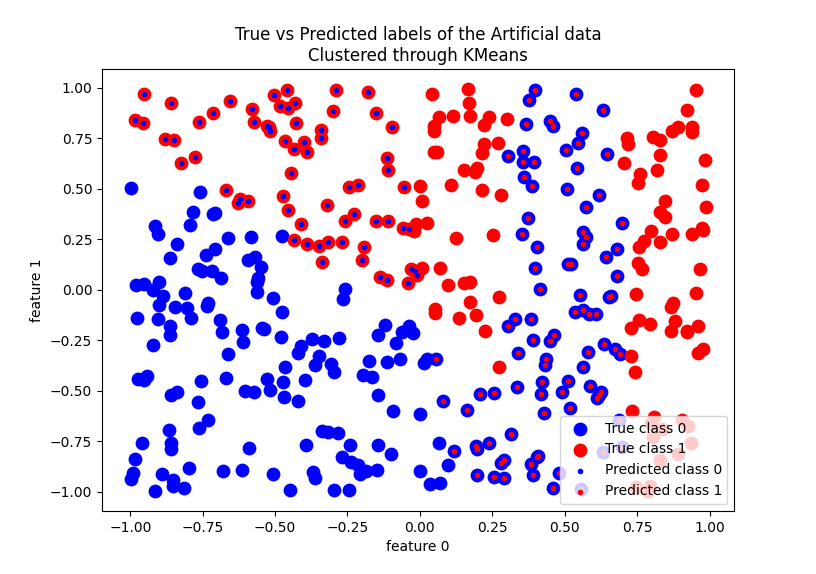
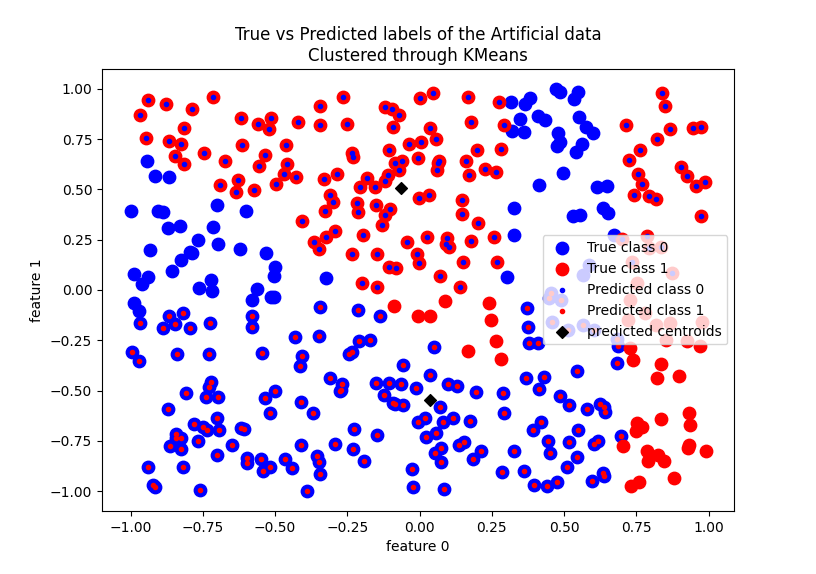
added centroids to plot

diff --git a/code/swarm_intelligence/ex3.py b/code/swarm_intelligence/ex3.py
@@ -109,18 +109,18 @@ class ArtificialData:
         return 1 if x[0] >= 0.7 or x[0] <= 0.3 and x[1] >= -0.2 - x[0] else 0
 
 
-def plot_2D_data(X: np.ndarray, y: np.ndarray, y_hat:np.ndarray, k:int, data_name:str, method_name:str):
+def plot_2D_data(X: np.ndarray, y: np.ndarray, y_hat: np.ndarray, k: int, centroids:np.ndarray, data_name: str, method_name: str):
     colors = ['blue', 'red', 'orange']
     for i in range(k):
         plt.scatter(X[y == i][:, 0], X[y == i][:, 1], marker='o', s=80, c=colors[i], label=f'True class {i}')
     for i in range(k):
         plt.scatter(X[y_hat == i][:, 0], X[y_hat == i][:, 1], marker='.', c=colors[i], label=f'Predicted class {i}')
+    plt.scatter(centroids[:,0], centroids[:,1],c='black', marker='D', label='predicted centroids')
     plt.legend()
     plt.xlabel('feature 0')
     plt.ylabel('feature 1')
     plt.title(f'True vs Predicted labels of the {data_name} data\nClustered through {method_name}')
     plt.show()
-
 
 
 # Load iris data:
@@ -136,7 +136,7 @@ k_artificial = 2
 omega = 0.72
 alpha1 = alpha2 = 1.49
 n_its = 100
-n_trials = 30
+n_trials = 1
 
 all_scores = {
     'iris_PSO': [],
@@ -213,21 +213,25 @@ print(f'PSO\t\t|\t{mean_quantization_PSO_artificial:.3f}\t|\t{mean_quantization_
 # Plot KMeans iris data:
 centroids = all_centroids['iris_KMeans'][0]
 _, y_hat = get_clusters(k=k_iris, x=centroids, data=iris_data['X'])
-plot_2D_data(X = iris_data['X'], y=iris_data['y'], y_hat=y_hat, k=k_iris, data_name='Iris', method_name='KMeans')
+plot_2D_data(X=iris_data['X'], y=iris_data['y'], y_hat=y_hat, k=k_iris, centroids=centroids, data_name='Iris',
+             method_name='KMeans')
 
 # Plot KMeans artificial data:
 centroids = all_centroids['artificial_KMeans'][0]
 _, y_hat = get_clusters(k=k_artificial, x=centroids, data=artificial_data['X'])
-plot_2D_data(X = artificial_data['X'], y=artificial_data['y'], y_hat=y_hat, k=k_artificial, data_name='Artificial', method_name='KMeans')
+plot_2D_data(X=artificial_data['X'], y=artificial_data['y'], y_hat=y_hat, k=k_artificial, centroids=centroids,
+             data_name='Artificial', method_name='KMeans')
 
 # Plot PSO iris data:
 centroids = all_centroids['iris_PSO'][0]
 _, y_hat = get_clusters(k=k_iris, x=centroids, data=iris_data['X'])
-plot_2D_data(X = iris_data['X'], y=iris_data['y'], y_hat=y_hat, k=k_iris, data_name='Iris', method_name='PSO')
+plot_2D_data(X=iris_data['X'], y=iris_data['y'], y_hat=y_hat, k=k_iris, data_name='Iris', centroids=centroids,
+             method_name='PSO')
 
 # Plot KMeans artificial data:
 centroids = all_centroids['artificial_PSO'][0]
 _, y_hat = get_clusters(k=k_artificial, x=centroids, data=artificial_data['X'])
-plot_2D_data(X = artificial_data['X'], y=artificial_data['y'], y_hat=y_hat, k=k_artificial, data_name='Artificial', method_name='PSO')
+plot_2D_data(X=artificial_data['X'], y=artificial_data['y'], y_hat=y_hat, k=k_artificial, centroids=centroids,
+             data_name='Artificial', method_name='PSO')
 
 #
